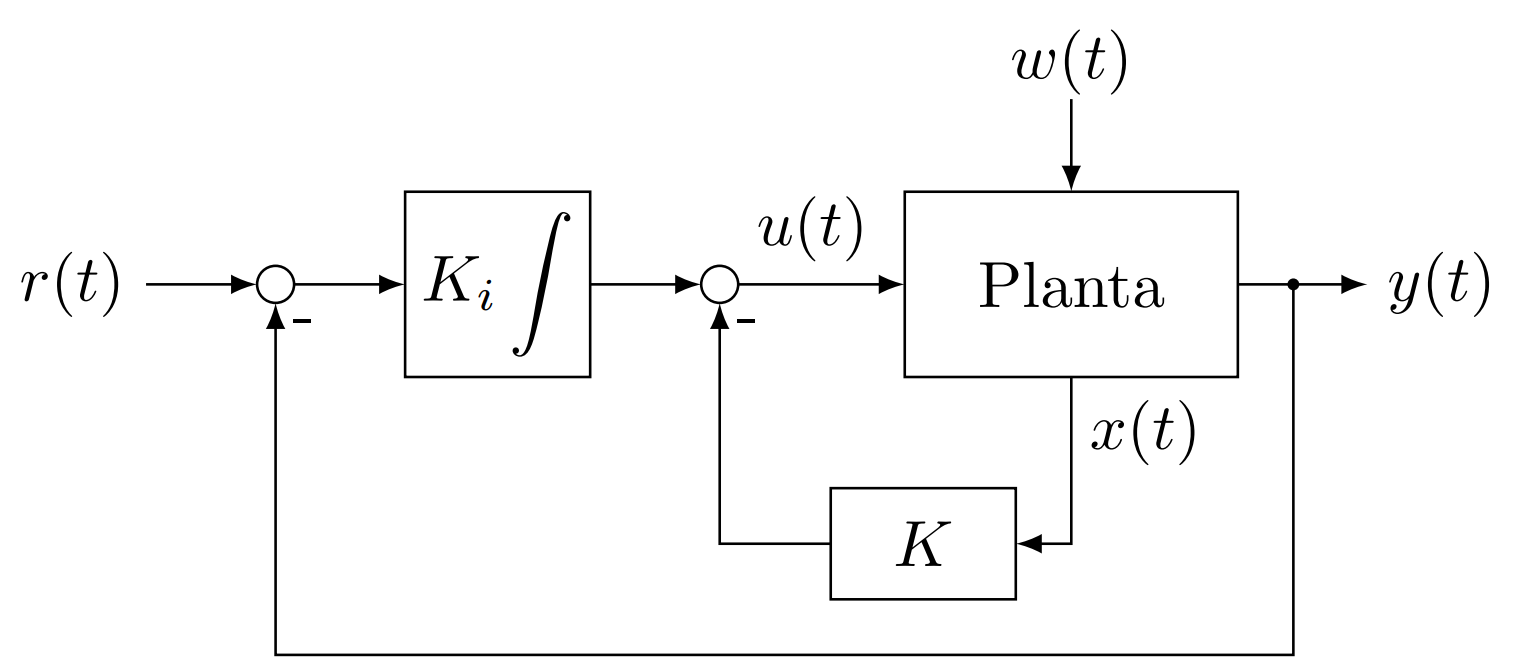
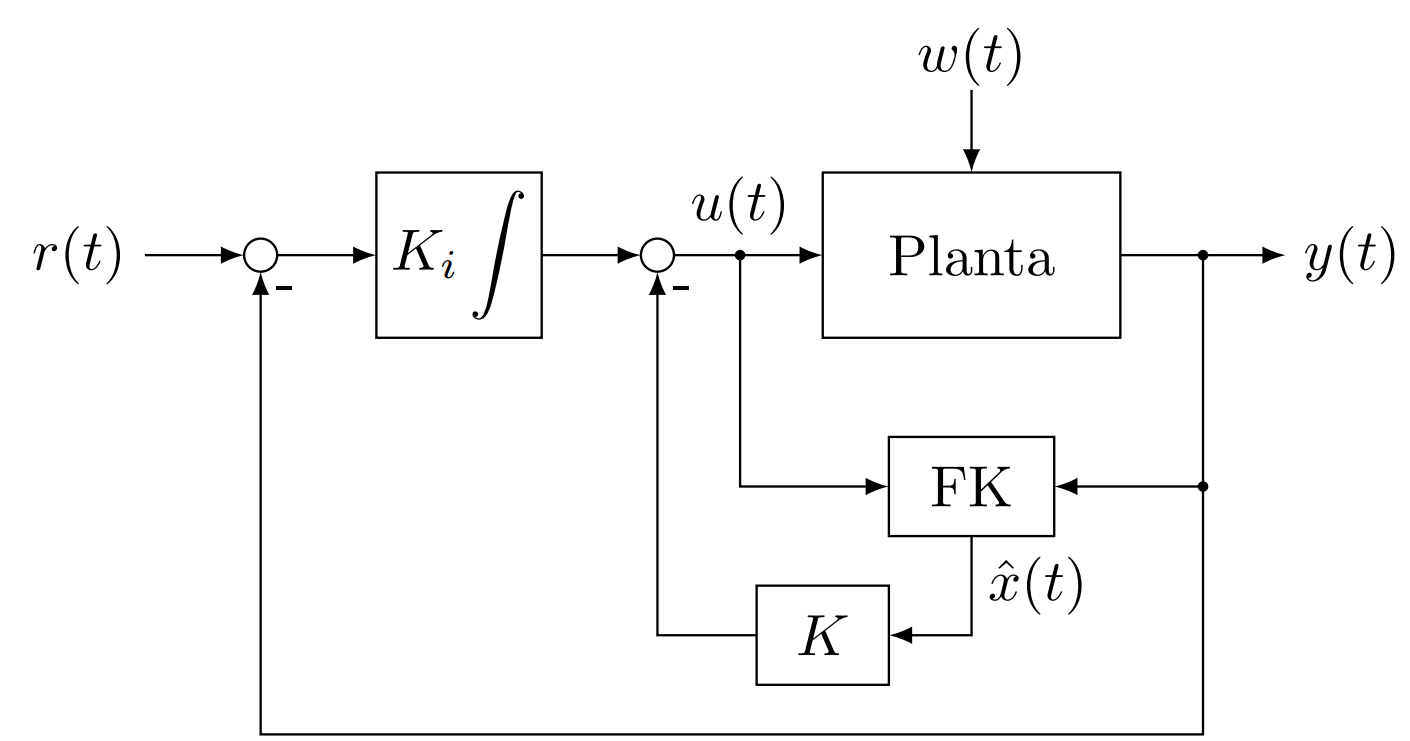
Update imageControl path in TimeControllerDomainComponent

diff --git a/src/app/components/time-controller-domain/time-controller-domain.component.ts b/src/app/components/time-controller-domain/time-controller-domain.component.ts
@@ -17,7 +17,7 @@ import { MatSnackBar } from '@angular/material/snack-bar';
 })
 export class TimeControllerDomainComponent implements OnInit {
   isLargeScreen = window.innerWidth >= 768;
-  imageControl: string = 'assets/png/LQG.png';
+  imageControl: string = 'assets/png/LQR.png';
 
   @HostListener('window:resize', ['$event'])
   onResize(event: any): void {
